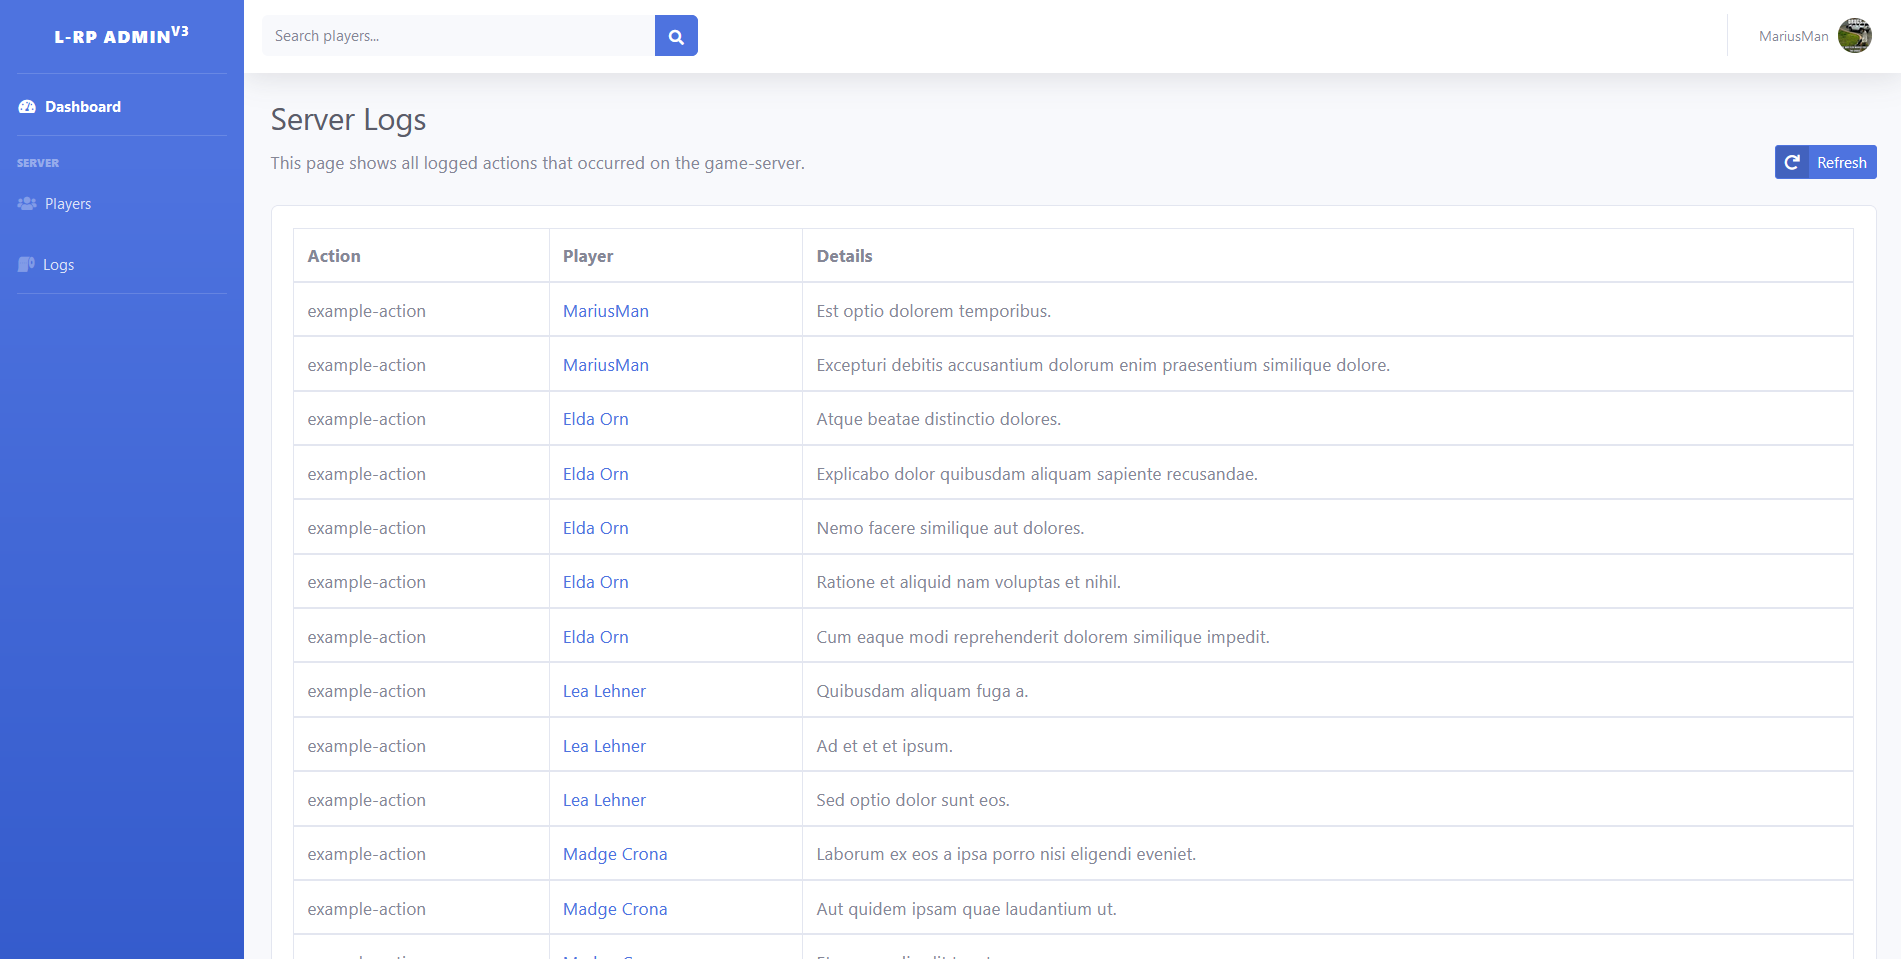
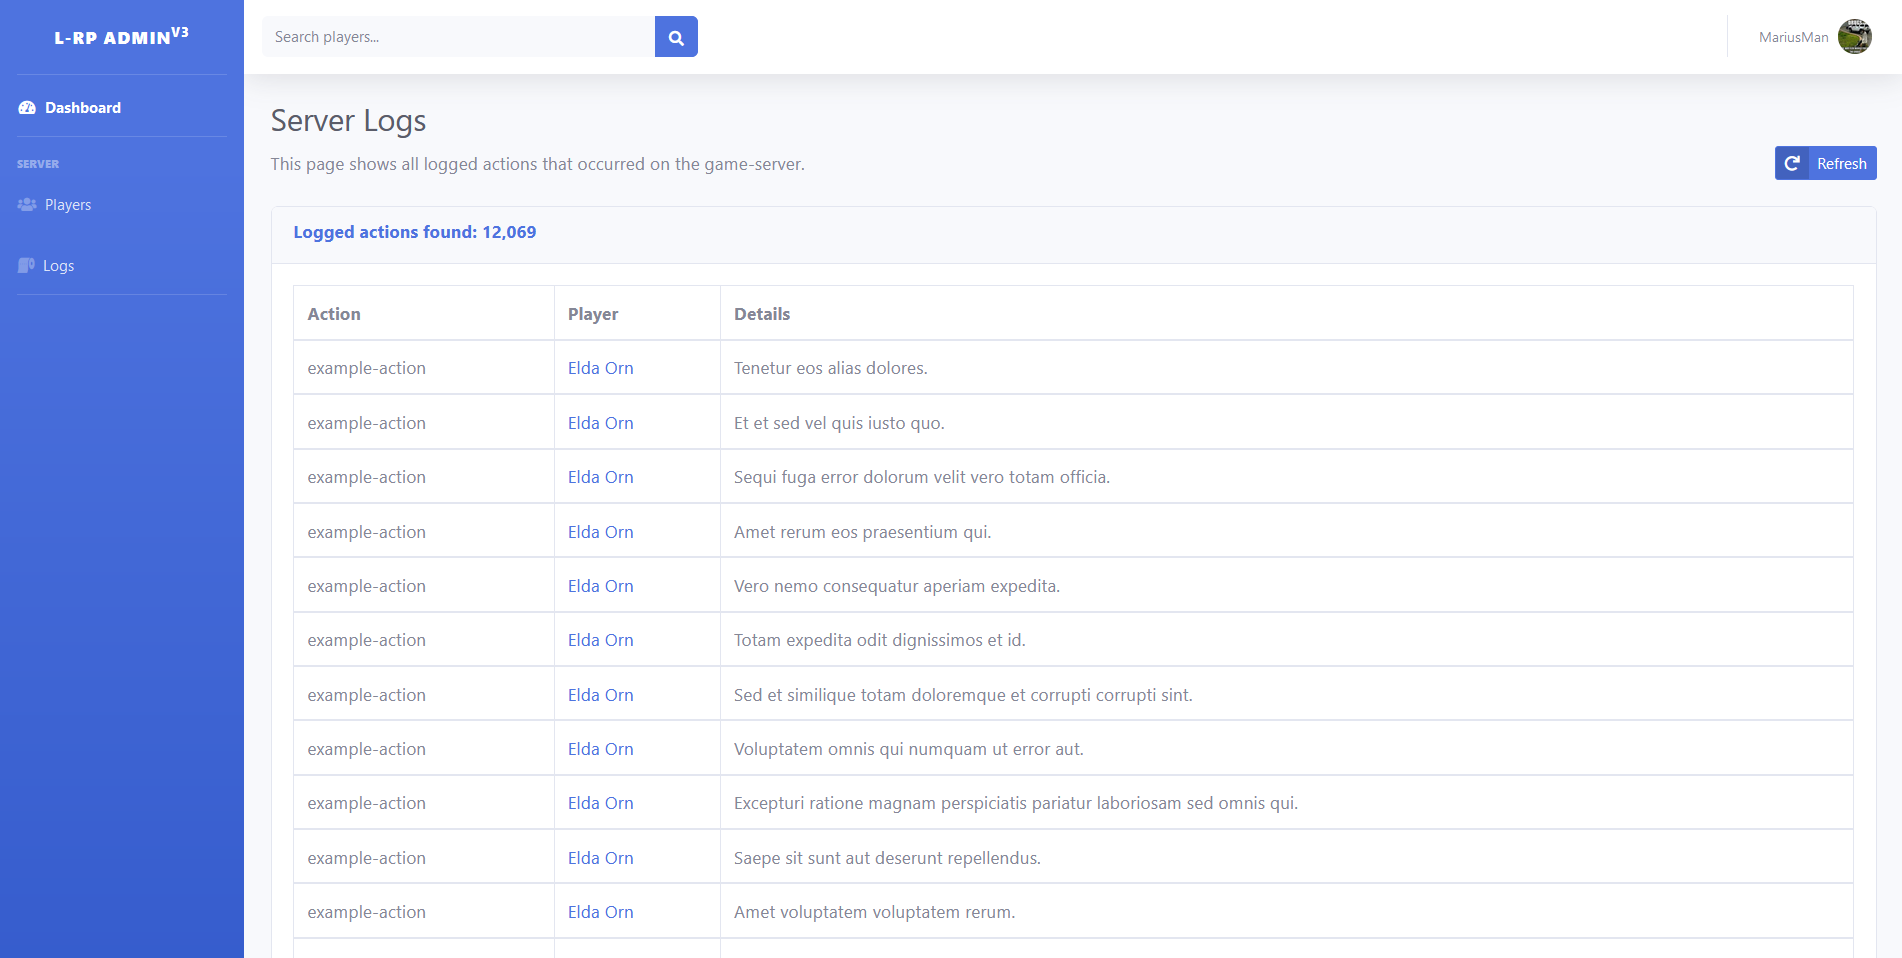
logs no longer lazy

diff --git a/resources/views/players/index.blade.php b/resources/views/players/index.blade.php
@@ -32,7 +32,7 @@
         <div class="col">
             <div class="card">
                 <div class="card-header">
-                    <h6 class="text-primary font-weight-bold">Players Found ({{ number_format($players->total()) }})</h6>
+                    <h6 class="text-primary font-weight-bold">Players found: {{ number_format($players->total()) }}</h6>
                 </div>
                 <div class="card-body">
                     @if ($players->isEmpty())

diff --git a/resources/views/logs/index.blade.php b/resources/views/logs/index.blade.php
@@ -28,6 +28,9 @@
     <div class="row">
         <div class="col">
             <div class="card">
+                <div class="card-header">
+                    <h6 class="text-primary font-weight-bold">Logged actions found: {{ number_format($logs->total()) }}</h6>
+                </div>
                 <div class="card-body">
                     @if ($logs->isEmpty())
                         <p>

diff --git a/app/Http/Controllers/LogController.php b/app/Http/Controllers/LogController.php
@@ -25,7 +25,7 @@ class LogController extends Controller
             $builder->where('identifier', $player);
         }
 
-        return view('logs.index', [ 'logs' => $builder->simplePaginate(20) ]);
+        return view('logs.index', [ 'logs' => $builder->paginate(20) ]);
     }
 
 }
